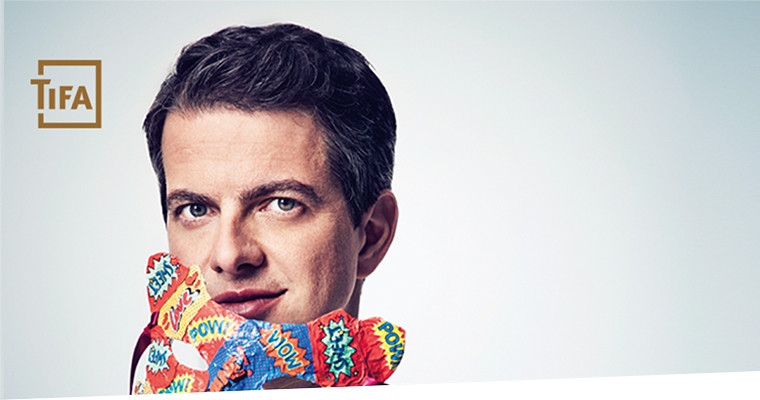
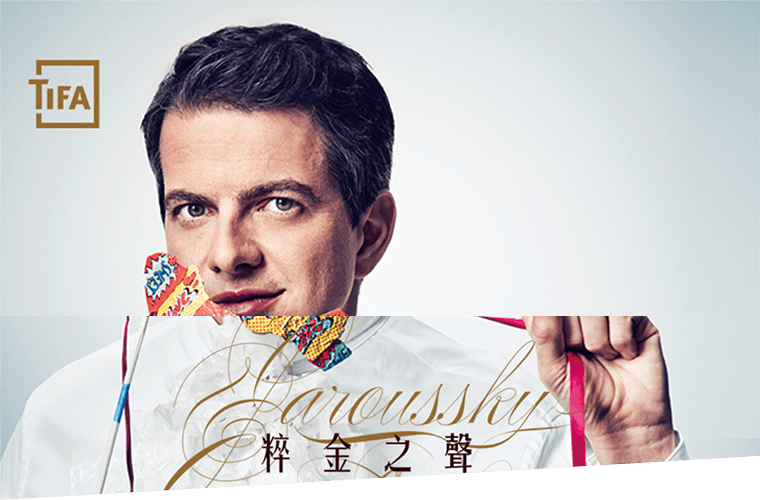
0622

diff --git a/0622/index.html b/0622/index.html
@@ -11,6 +11,7 @@
 		.btn{width:300px;}
 		.footer{padding: 40px;}
 		.td_m{padding-right: 0;}
+		.title{ font-size:30px; line-height: 42px;}
 	}
 	 @media only screen and (max-width:768px) {
 		.pic_d{display: none !important;}
@@ -20,6 +21,7 @@
 		.btn{width:95%;}
 		.footer{padding: 40px 10px;}
 		.td_m{padding-right: 10px;}
+		.title{ font-size:24px; line-height: 32px;}
 	}
 </style>
 </head>
@@ -40,7 +42,7 @@
 									<tbody>
 										<tr>
 											<td align="left" bgcolor="#E6E6E6" width="760">
-												<img align="left" class="img" src="https://cathchou.github.io/national/0622/images/banner.png" width="760" height="400" alt="banner">
+												<img align="left" class="img" src="https://cathchou.github.io/national/0622/images/banner.png" width="760" height="500" alt="banner">
 											</td>
 											<td class="pic_d" width="40">
 												<table width="100%" border="0" cellpadding="0" cellspacing="0" style="border-collapse: collapse;">
@@ -73,7 +75,7 @@
 														  <td>&nbsp;</td>
 													  </tr>
 													  <tr>
-														  <td class="td_m" style="color:#966B32;font-family:微軟正黑體,PingFang TC, sans-serif;font-size: 30px;font-weight: 500;letter-spacing: 0;line-height: 42px;">2020TIFA 假聲男高音賈洛斯基與阿塔瑟斯古樂合奏團「粹金之聲」</td>
+														  <td class="td_m title" style="color:#966B32;font-family:微軟正黑體,PingFang TC, sans-serif;font-weight: 500;letter-spacing: 0;">2020TIFA 假聲男高音賈洛斯基與阿塔瑟斯古樂合奏團「粹金之聲」</td>
 													  </tr>
 													  <tr>
 														  <td height="40" style="color: #000000;font-family: 微軟正黑體,PingFang TC, sans-serif;font-size: 18px;letter-spacing: 0;line-height: 25px;">2020/07/05(FRI) 19:30</td>
